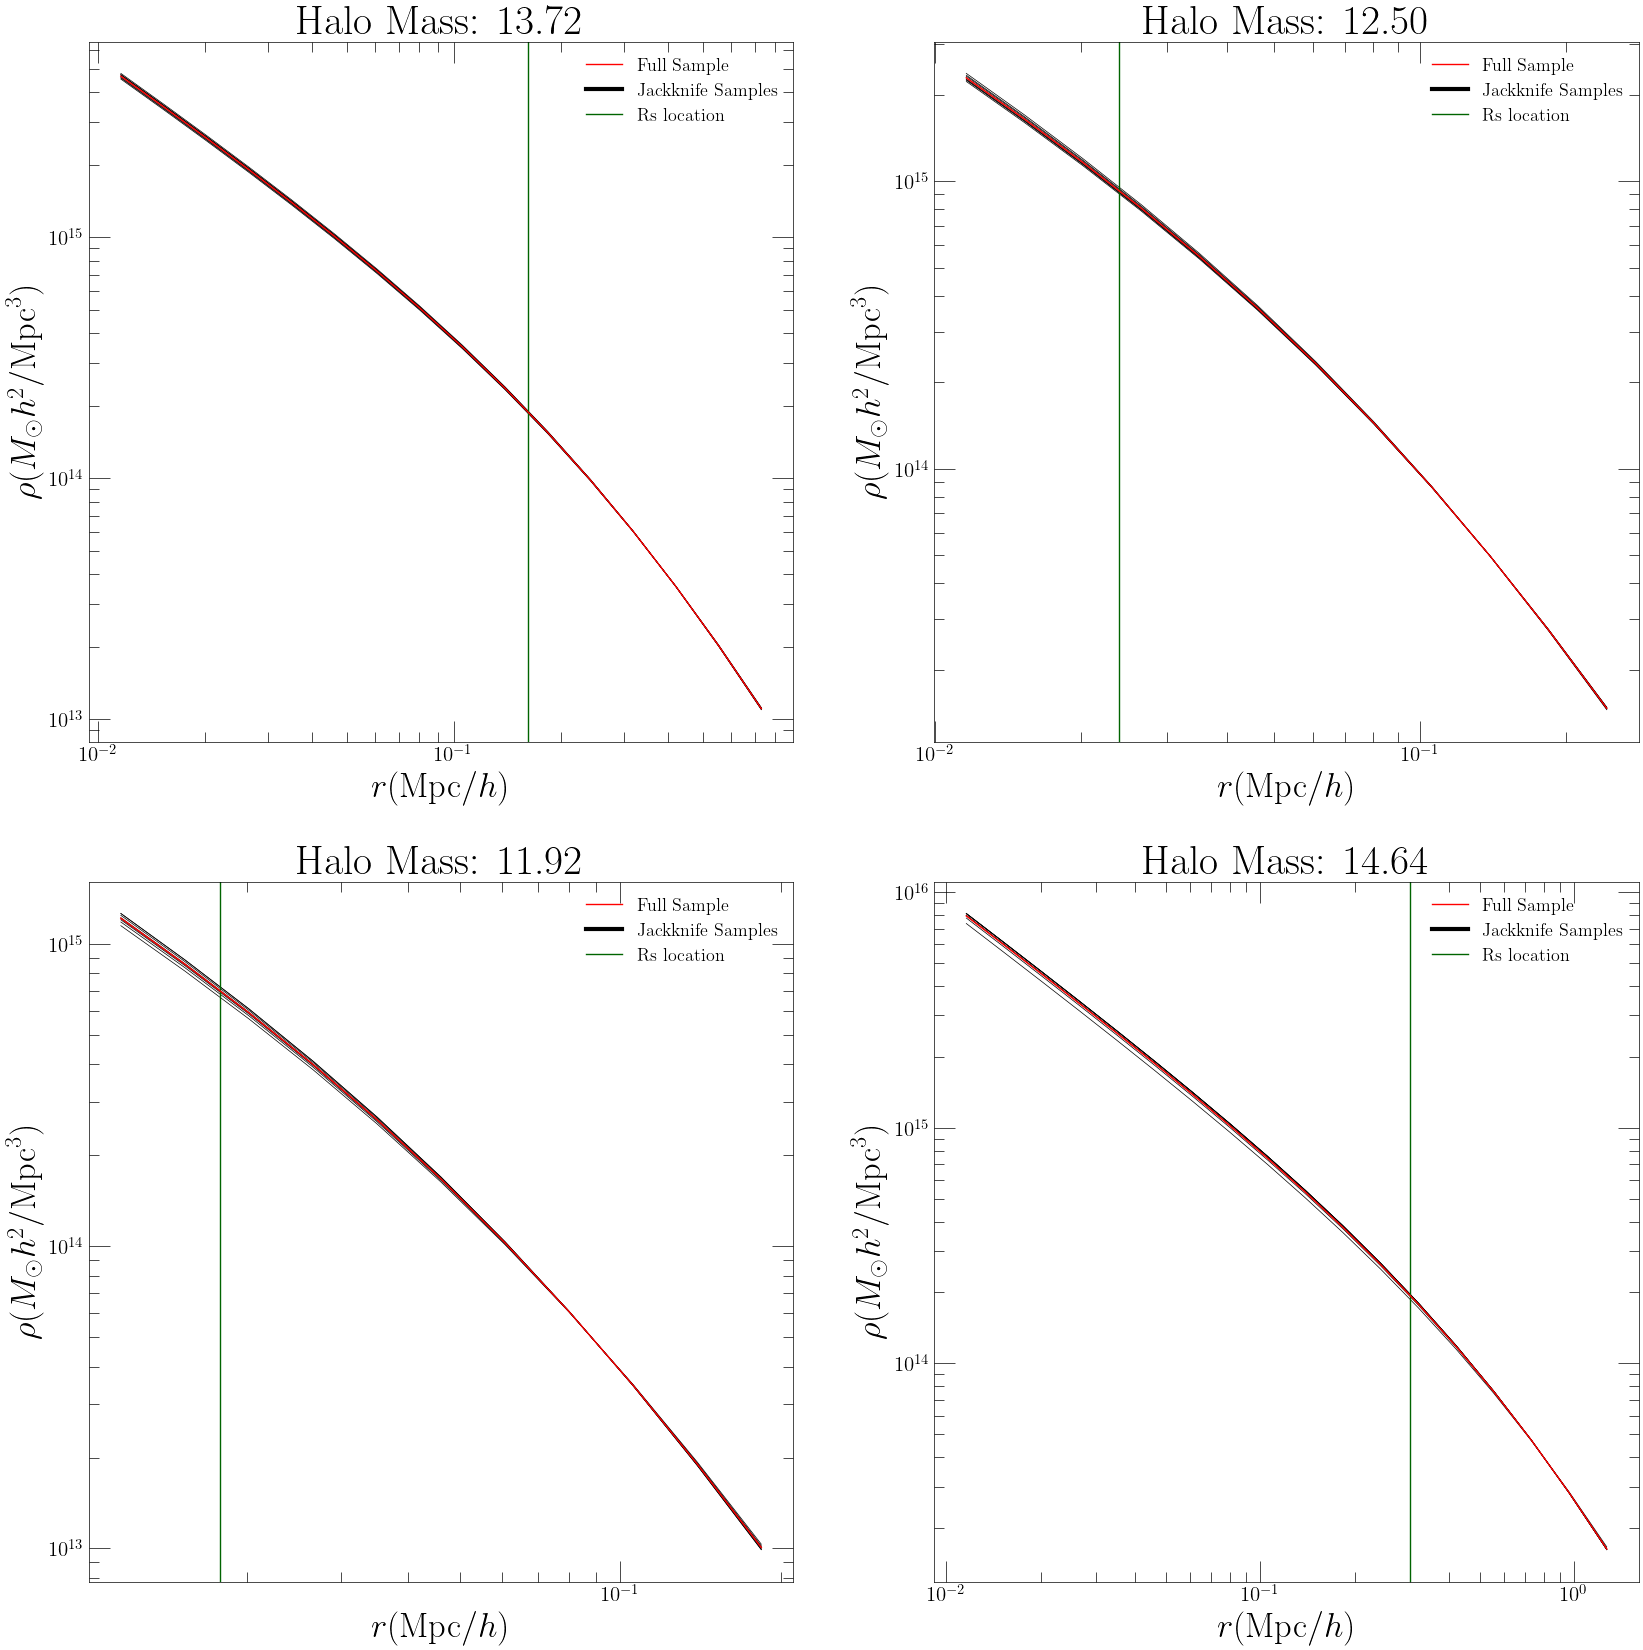
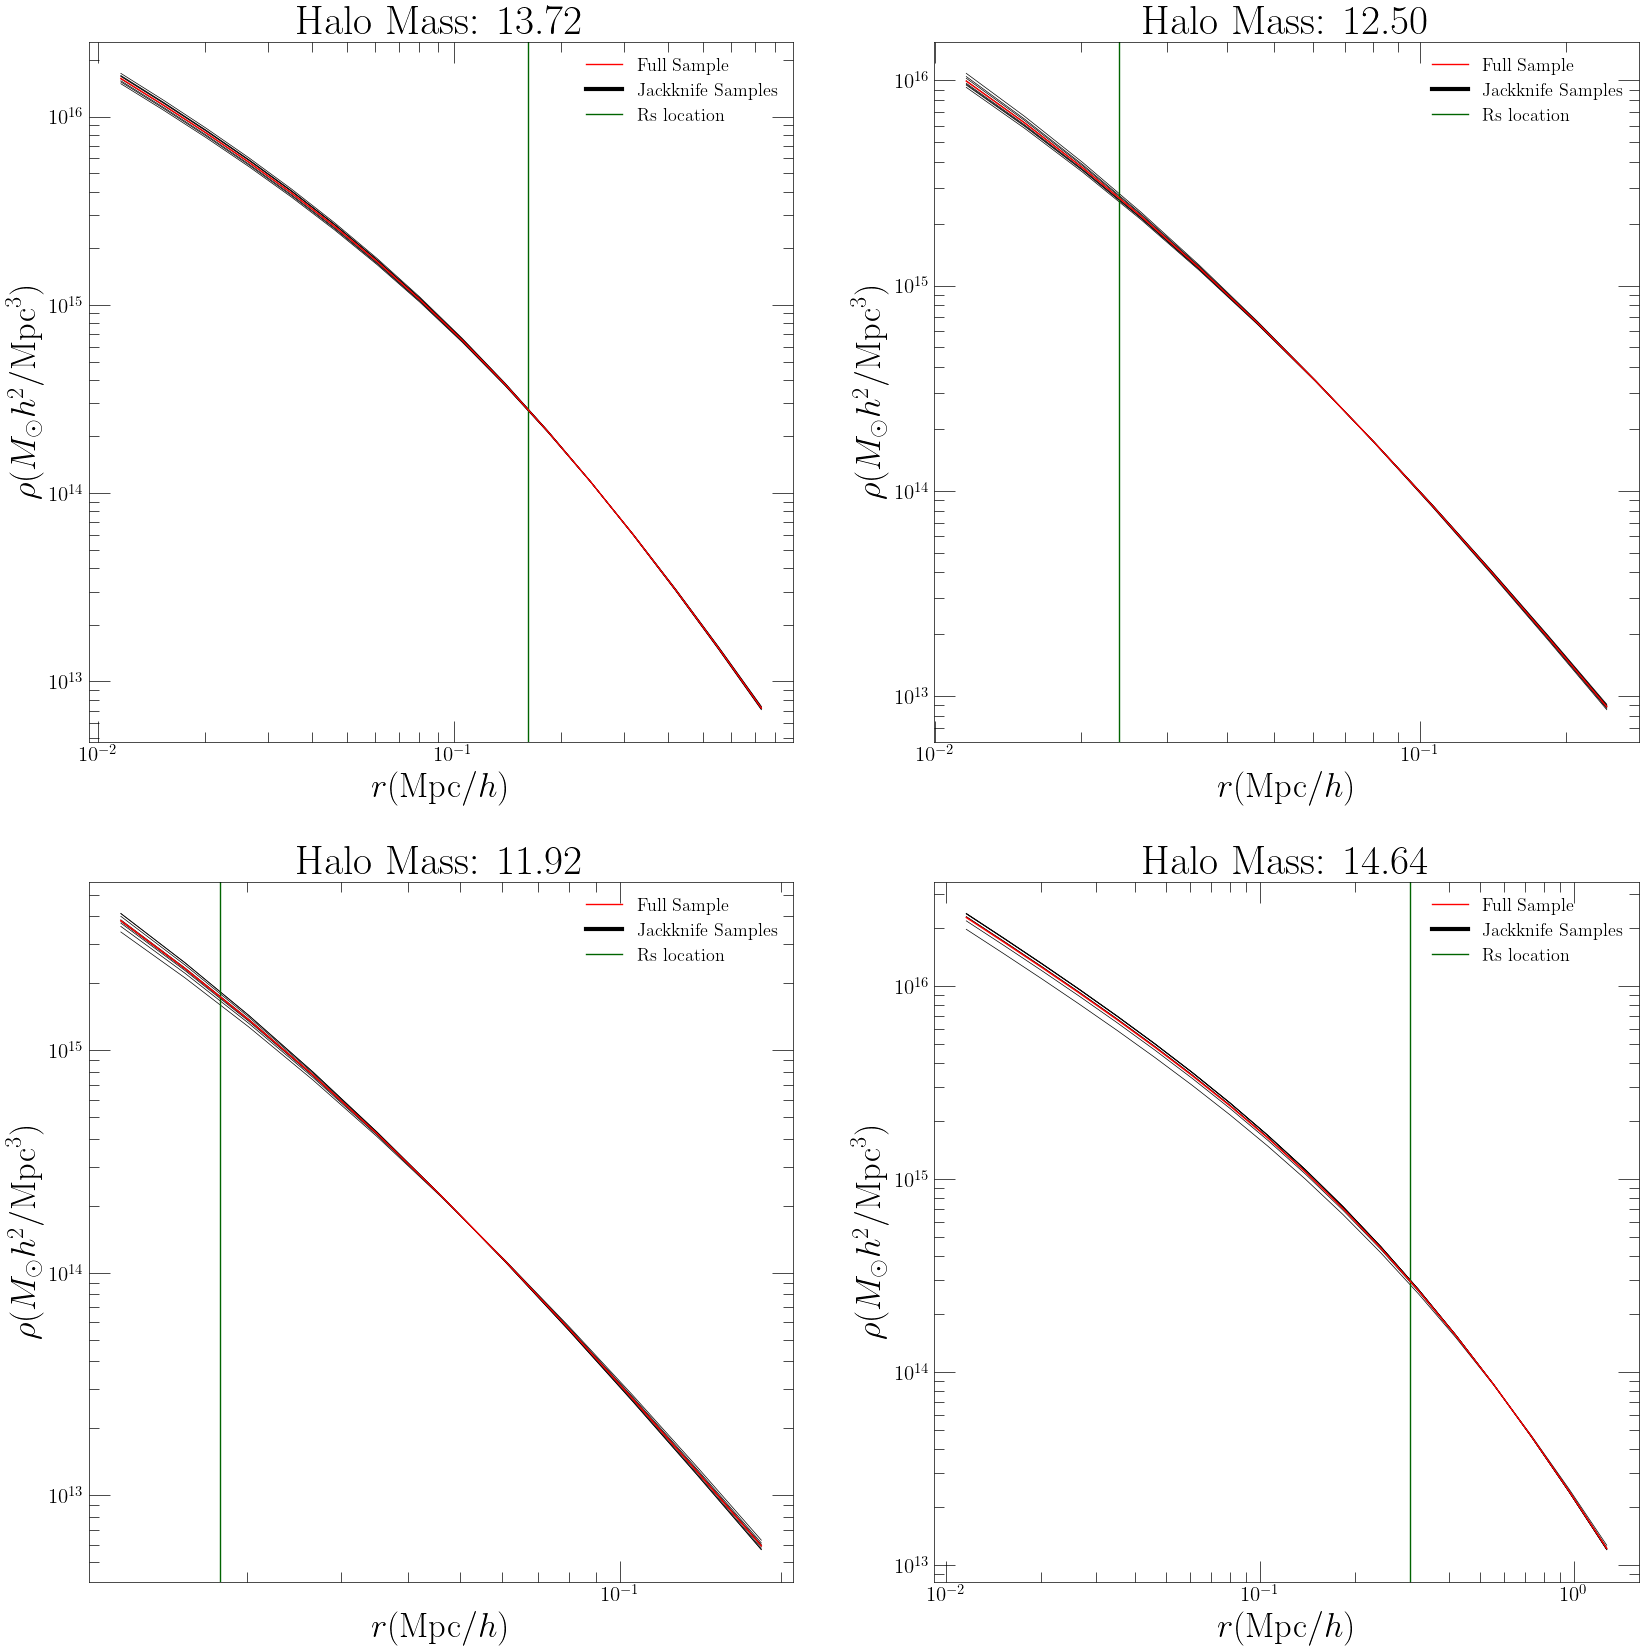
Fix Lorentz Plots

diff --git a/Bolshoi/jackknife.py b/Bolshoi/jackknife.py
@@ -43,8 +43,8 @@ for loc in locations:
         c_inv = cinv(obs)
 
         optres = iminuit.minimize(cost, [np.log(10)], args=(obs, c_inv, M, Rvir, 1))
-        oRs = Rvir / optres.x
-        ocos = cost(optres.x, obs, c_inv, M, Rvir)
+        oRs = Rvir / np.exp(optres.x)
+        ocos = cost(np.exp(optres.x), obs, c_inv, M, Rvir)
         orad, orhos = rho_r(oRs, M, Rvir)
 
         if i == 1:
